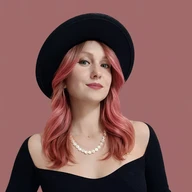
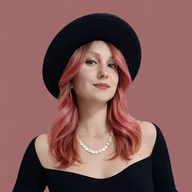
Аватар: фигура по центру круга

Changed region(s): [[0.0312, 0.0625, 0.9375, 1.0], [0.1875, 0.9688, 0.2812, 1.0]]

diff --git a/index.html b/index.html
@@ -440,7 +440,7 @@ h1,h2,h3,.name,.ir b,.case b,.svc .price,.ring-big,.clients{letter-spacing:-.005
 <div class="band-mist">
   <div class="wrap">
     <header class="top">
-      <a class="ava" href="#" aria-label="Юлия Скутина, в начало страницы"><img src="avatar-pink.webp?v=5" alt="" width="52" height="52"><img class="ph-blue" src="avatar-blue.webp?v=5" alt="" width="52" height="52"></a>
+      <a class="ava" href="#" aria-label="Юлия Скутина, в начало страницы"><img src="avatar-pink.webp?v=6" alt="" width="52" height="52"><img class="ph-blue" src="avatar-blue.webp?v=6" alt="" width="52" height="52"></a>
       <nav aria-label="Разделы">
         <a class="hide-md" href="#raboty">Сайты</a>
         <a class="hide-md" href="#kejsy">Кейсы</a>
